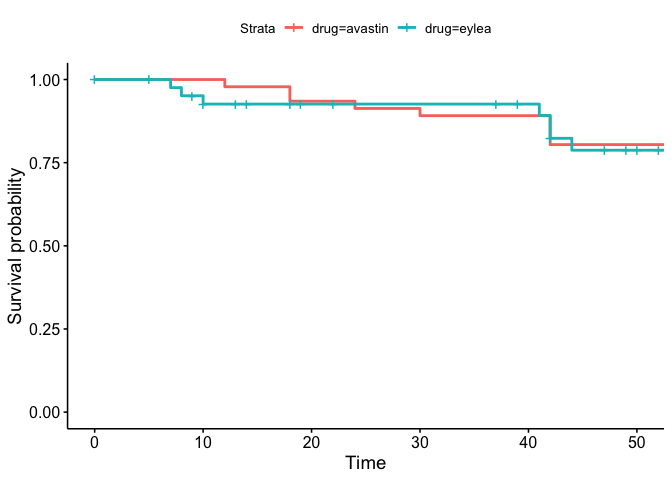
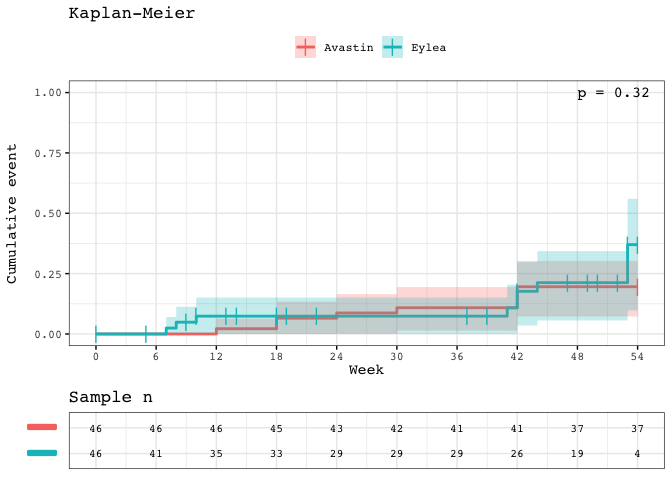
+ formatted KM plots

diff --git a/exact_eylea_survival.md b/exact_eylea_survival.md
@@ -12,6 +12,7 @@ Load frequently used packages.
 
 ``` r
 library(survival)
+library(survminer)
 library(tidyverse)
 ```
 
@@ -74,11 +75,45 @@ eylea.exact.survival <- eylea.exact.survival %>%
     plotz = 
       map2(.x = km_models,
            .y = data,
-           ~ survminer::ggsurvplot(
-             fit = .x,
-             data = .y
+           ~ ggsurvplot(
+              fit = .x,
+              data = .y,
+              fun = "event",
+              conf.int = TRUE,
+              conf.int.style = "ribbon",
+              conf.int.alpha = 0.25,
+              censor.shape = "|",
+              risk.table = TRUE,
+              tables.height = 0.2,
+              fontsize = 3,
+              risk.table.title = "Sample n",
+              tables.theme = theme_cleantable(),
+              tables.y.text = FALSE,
+              font.family = "Courier",
+              break.time.by = 6,
+              xlim = c(0, 54),
+              ylim = c(0, 1),
+              title = "Kaplan-Meier", # pmap
+              legend.title = "",
+              legend.labs = c("Avastin", "Eylea"),
+              xlab = "Week",
+              ylab = "Cumulative event",
+              surv.median.line = "hv",
+              pval = TRUE,
+              pval.size = 4,
+              pval.coord = c(48, 1),
+              ggtheme = courier_bw
            )))
 ```
+
+to do:
+
+  - pmap so third parameter is the event as title (15 letetrs gain,
+    etc.)
+  - cowplot/patchwork intpo one (preferably with one
+legend)
+
+<!-- end list -->
 
 ``` r
 walk(eylea.exact.survival[["plotz"]], print)
